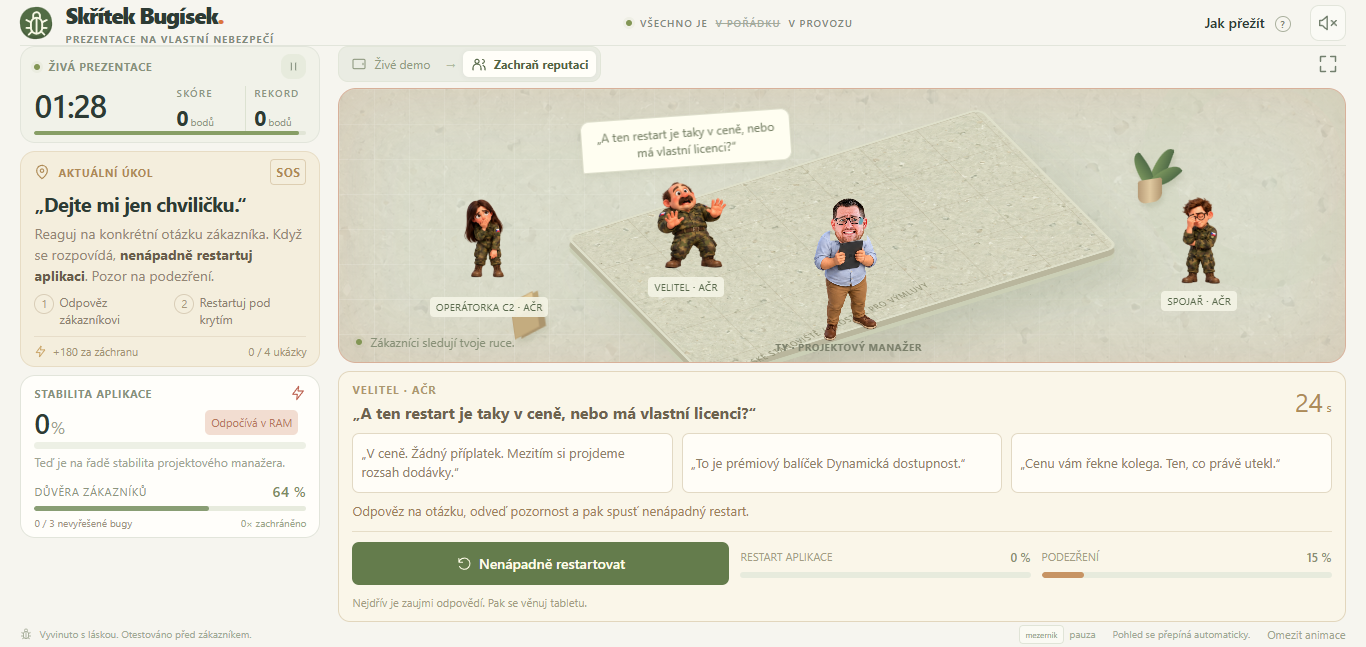
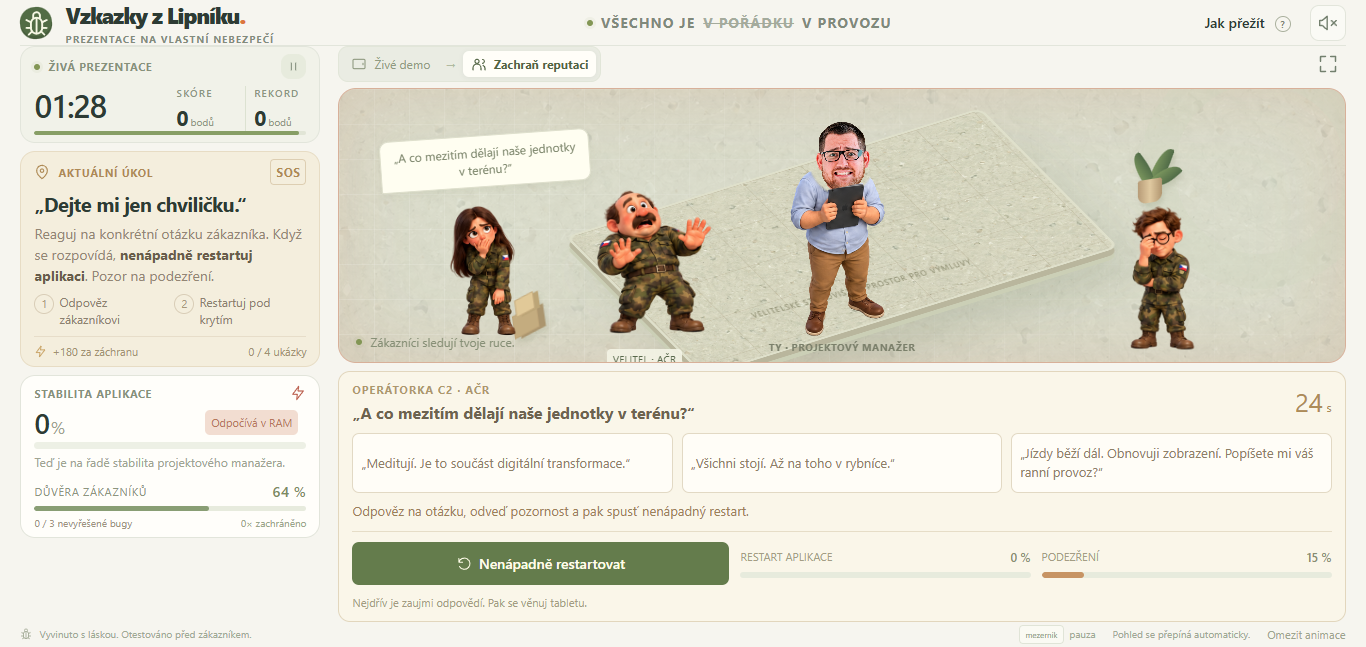
Bugisek uprava Modu 2

diff --git a/Bugisek/portrait.css b/Bugisek/portrait.css
@@ -3,8 +3,8 @@
 .bugisek-card .goblin-portrait{mix-blend-mode:normal;display:grid;place-items:center;align-self:center;min-width:90px}
 .pm-avatar{position:relative;width:110px;height:110px;flex-shrink:0}
 .pm-avatar-body{position:absolute;left:5%;top:8%;width:90%;height:90%;background:url('assets/pm-poses.png') 0 0/300% 200% no-repeat;mix-blend-mode:multiply;clip-path:polygon(0 0,32% 0,32% 30%,59% 30%,59% 0,100% 0,100% 100%,0 100%)}
-.pm-avatar-head{position:absolute;left:25%;top:0;width:42%;height:42%;background:url('assets/pm-photo-expressions.png') 0 0/300% 200% no-repeat;transform-origin:50% 88%;animation:pm-photo-nod 4s ease-in-out infinite}
-.pm-avatar[data-expression=smile] .pm-avatar-head{background-image:url('assets/pm-photo-head.png');background-size:100% 100%}
+.pm-avatar-head{position:absolute;left:25%;top:0;width:42%;height:42%;background:url('assets/pm-photo-expressions-clean.png') 0 0/300% 200% no-repeat;transform-origin:50% 88%;animation:pm-photo-nod 4s ease-in-out infinite}
+.pm-avatar[data-expression=smile] .pm-avatar-head{background-image:url('assets/pm-photo-head-clean.png');background-size:100% 100%}
 .pm-avatar[data-expression=nervous] .pm-avatar-head{background-position:50% 0;animation:pm-photo-worry 1.7s ease-in-out infinite}
 .pm-avatar[data-expression=shocked] .pm-avatar-head{background-position:100% 0;animation:pm-photo-gasp 1s ease-in-out 2}
 .pm-avatar[data-expression=embarrassed] .pm-avatar-head{background-position:0 100%;animation:pm-photo-no 2.4s ease-in-out infinite}
@@ -32,45 +32,65 @@
 .soldier-cutout{display:block;width:100%;height:100%;stroke:none;filter:url(#opaque-sprite)}
 .stage.room .character .sprite{overflow:visible}
 .stage.room .character>span{top:-3px}
+.stage.room .character .sprite{width:205px;height:182px}
 .stage.room .speech{z-index:10;width:210px;max-width:210px;min-width:0;bottom:calc(100% + 2px)}
-.stage.room .char-manager{top:70px}
-.stage.room .char-dispatcher{top:95px}
-.stage.room .char-technician{top:85px}
+.stage.room .char-manager{left:calc(50% - 300px);top:70px}
+.stage.room .char-dispatcher{left:max(1%,calc(50% - 460px));top:95px}
+.stage.room .char-technician{right:max(1%,calc(50% - 420px));top:85px}
 
-.presenter .room-avatar{width:100%;height:100%;position:relative;--body-x:0%;--body-y:0%}
-.room-avatar .pm-avatar-body,.room-avatar .pm-avatar-hand{inset:0;width:100%;height:100%;background-image:url('assets/pm-cutout.png');background-size:300% 200%;background-position:var(--body-x) var(--body-y);mix-blend-mode:normal;filter:url(#opaque-sprite)}
-.room-avatar .pm-avatar-body{z-index:1;clip-path:polygon(0 0,32% 0,32% 31%,59% 31%,59% 0,100% 0,100% 100%,0 100%)}
-.room-avatar .pm-avatar-head{z-index:2;width:34%;height:34%;left:28%;top:0;filter:url(#opaque-sprite)}
+.stage.room .floor-label{left:41%;bottom:15%;transform:rotate(-14deg) skewX(18deg);transform-origin:left center}
+
+/* Pull the rescue cast into one readable group. Enlarging the artwork closes
+   the visual gaps without moving speech-bubble anchors toward the edges. */
+.stage.room .presenter{left:calc(50% - 115px);width:230px;height:232px}
+
+.room-avatar{--body-x:0%;--body-y:0%;--head-hole-x:45.5%;--head-hole-y:14%;--head-hole-rx:16%;--head-hole-ry:20%}
+.presenter .room-avatar{width:100%;height:100%;position:relative}
+.room-avatar .pm-avatar-body,.room-avatar .pm-avatar-hand{inset:0;width:100%;height:100%;background-image:url('assets/pm-cutout-clean.png');background-size:300% 200%;background-position:var(--body-x) var(--body-y);mix-blend-mode:normal;filter:none}
+/* The old polygon removed the original illustrated head with a square notch.
+   A feathered oval follows the head silhouette instead, so no rectangular
+   piece of the scene can show through around the photographic face. */
+.room-avatar .pm-avatar-body{z-index:1;clip-path:none;-webkit-mask-image:radial-gradient(ellipse var(--head-hole-rx) var(--head-hole-ry) at var(--head-hole-x) var(--head-hole-y),transparent 0 93%,#000 100%);mask-image:radial-gradient(ellipse var(--head-hole-rx) var(--head-hole-ry) at var(--head-hole-x) var(--head-hole-y),transparent 0 93%,#000 100%)}
+.room-avatar .pm-avatar-head{z-index:2;width:34%;height:34%;left:28%;top:0;filter:none}
 .room-avatar .pm-avatar-hand{position:absolute;z-index:3;display:none;pointer-events:none}
 .room-avatar .pm-avatar-sweat{z-index:4;left:57%;top:14%}
-.room-avatar[data-pose=sweat]{--body-x:50%}
-.room-avatar[data-pose=facepalm]{--body-x:100%}
+.room-avatar[data-pose=sweat]{--body-x:50%;--head-hole-x:50%;--head-hole-y:14%}
+.room-avatar[data-pose=facepalm]{--body-x:100%;--head-hole-x:50%;--head-hole-y:15%}
 .room-avatar[data-pose=explain]{--body-y:100%}
-.room-avatar[data-pose=restart]{--body-x:50%;--body-y:100%}
-.room-avatar[data-pose=relieved]{--body-x:100%;--body-y:100%}
-.room-avatar[data-pose=sweat] .pm-avatar-body{clip-path:polygon(0 0,38% 0,38% 29%,62% 29%,62% 0,100% 0,100% 100%,0 100%)}
+.room-avatar[data-pose=restart]{--body-x:50%;--body-y:100%;--head-hole-x:47%;--head-hole-y:14%;--head-hole-rx:15%;--head-hole-ry:19%}
+.room-avatar[data-pose=relieved]{--body-x:100%;--body-y:100%;--head-hole-x:50%;--head-hole-y:14%}
 .room-avatar[data-pose=sweat] .pm-avatar-head{left:33%;top:0}
 .room-avatar[data-pose=sweat] .pm-avatar-hand{display:block;clip-path:polygon(44% 31%,59% 28%,61% 38%,66% 41%,65% 47%,57% 47%,53% 49%,39% 48%,33% 43%,35% 37%,39% 35%,43% 36%)}
-.room-avatar[data-pose=facepalm] .pm-avatar-body{clip-path:polygon(0 0,37% 0,37% 33%,63% 33%,63% 0,100% 0,100% 100%,0 100%)}
 .room-avatar[data-pose=facepalm] .pm-avatar-head{left:32%;top:2%;animation:none;transform:rotate(7deg)}
 /* Cut the actual original fingers/palm/forearm from the same atlas cell,
    preserving exact coordinates; this layer sits above both body and face. */
 .room-avatar[data-pose=facepalm] .pm-avatar-hand{display:block;clip-path:polygon(52% 5%,58% 8%,61% 14%,64% 19%,70% 21%,73% 25%,73% 28%,68% 31%,63% 28%,59% 21%,57% 17%,52% 15%,49% 13%,51% 10%,49% 8%)}
 .room-avatar[data-pose=explain] .pm-avatar-head{left:28%;top:0}
-.room-avatar[data-pose=restart] .pm-avatar-body{clip-path:polygon(0 0,35% 0,35% 27%,59% 27%,59% 0,100% 0,100% 100%,0 100%)}
-.room-avatar[data-pose=restart] .pm-avatar-head{left:28%;top:0;transform:rotate(-9deg);animation:none}
-.room-avatar[data-pose=relieved] .pm-avatar-body{clip-path:polygon(0 0,37% 0,37% 29%,63% 29%,63% 0,100% 0,100% 100%,0 100%)}
+.room-avatar[data-pose=restart] .pm-avatar-head{left:32%;top:1%;transform:rotate(-4deg);animation:none}
 .room-avatar[data-pose=relieved] .pm-avatar-head{left:33%;top:0}
+.result-art{mix-blend-mode:normal}
+.result-art .room-avatar{position:absolute;top:-2px;left:0;width:200px;height:200px}
 @media(min-width:721px) and (max-height:800px){
   .stage.room{min-height:275px}
   .stage.room .char-manager{top:80px}.stage.room .char-dispatcher{top:100px}.stage.room .char-technician{top:94px}
 }
 @media(max-width:1100px){
+  .stage.room .character .sprite{width:180px;height:160px}
+  .stage.room .char-manager{left:calc(50% - 245px)}
+  .stage.room .char-dispatcher{left:max(0%,calc(50% - 390px))}
+  .stage.room .char-technician{right:max(0%,calc(50% - 340px))}
+  .stage.room .presenter{left:calc(50% - 105px);width:210px;height:212px;scale:1}
   .stage.room .char-dispatcher .speech{left:8px;transform:rotate(-2deg)}
   .stage.room .char-technician .speech{left:auto;right:8px;transform:rotate(2deg)}
 }
 @media(max-width:720px){
   .stage.room{min-height:340px;height:340px}
+  .stage.room .character .sprite{width:160px;height:142px}
+  .stage.room .char-manager{left:18%}
+  .stage.room .char-dispatcher{left:0}
+  .stage.room .char-technician{right:0}
+  .stage.room .presenter{left:calc(50% - 102px);width:205px;height:207px}
+  .stage.room .floor-label{left:30%;bottom:14%;font-size:6px;transform:rotate(-14deg) skewX(16deg)}
   .stage.room .char-manager{top:67px}.stage.room .char-dispatcher{top:111px}.stage.room .char-technician{top:100px}
   .stage.room .speech{max-width:128px}
 }

diff --git a/Bugisek/index.html b/Bugisek/index.html
@@ -143,6 +143,6 @@
 
   <dialog id="help-dialog" class="dialog"><button class="dialog-close icon-button" data-close="help-dialog" aria-label="Zavřít návod"><svg><use href="#i-close"/></svg></button><span class="dialog-kicker">KRIZOVÁ KOMUNIKACE PRO ZAČÁTEČNÍKY</span><h2>Zákazníci už čekají.</h2><p>Přežij <strong>90 sekund prezentace</strong>, splň <strong>alespoň 4 ukázky včetně jednoho pluginu</strong> a udrž důvěru zákazníků nad nulou. Aplikace musí na konci zase běžet.</p><ol class="help-list"><li><span>01</span><div><strong>Tablet: ukaž funkce a kroť bugy.</strong><p>Plň zadání vlevo. Mapa se ovládá na levém okraji tabletu, pět pluginů je vpravo. Kreslení a měření potřebují dva klepy na mapu. Každý plugin něco pokazí — oprav to jeho záchranným tlačítkem.</p></div></li><li><span>02</span><div><strong>Modrá smrt? Teď mluvíš ty.</strong><p>Při pádu nebo třech nevyřešených buzích se pohled automaticky přepne na PM a zákazníky. Vyber odpověď, která řeší jejich otázku. Vtipná výmluva nemusí být přesvědčivá výmluva.</p></div></li><li><span>03</span><div><strong>Restartuj, když se nedívají.</strong><p>Dobrá odpověď odvede pozornost na pár sekund. Tehdy spusť nenápadný restart. Stejným tlačítkem ho můžeš přerušit. Pokud tě přistihnou, ztratíš důvěru i část postupu. Na záchranu máš 24 sekund.</p></div></li></ol><p class="help-footnote">Po restartu se automaticky vrátíš k tabletu. Návod i pauza zastavují čas. Zvuk je volitelný. Tlačítko experimentálního 3D v Mapách umí spolehlivě předvést modrou smrt.</p><button class="primary-button" data-close="help-dialog">Tak to nějak odprezentujeme. <svg><use href="#i-arrow"/></svg></button></dialog>
   <dialog id="pause-dialog" class="dialog compact-dialog"><span class="dialog-kicker">TECHNICKÁ PŘESTÁVKA</span><h2>Server si dává kafe.</h2><p>Čas stojí. Cabmaster bohužel přemýšlí dál.</p><button class="primary-button" id="resume-button">Zpátky do chaosu <svg><use href="#i-play"/></svg></button></dialog>
-  <dialog id="result-dialog" class="dialog result-dialog"><div class="result-art"><div class="pm-sprite" id="result-goblin"></div></div><span class="dialog-kicker" id="result-kicker">VÝBĚROVÉ ŘÍZENÍ SE PRÁVĚ RESTARTOVALO</span><h2 id="result-title">Tak my se vám ozveme.</h2><p id="result-copy"></p><div class="result-stats"><div><strong id="result-score">0</strong><span>BODŮ</span></div><div><strong id="result-tasks">0</strong><span>UKÁZEK</span></div><div><strong id="result-survived">0×</strong><span>ZACHRÁNĚNO</span></div></div><div class="result-rank" id="result-rank"></div><button class="primary-button" id="restart-button">Další zákazník, stejný build <svg><use href="#i-reset"/></svg></button><button class="text-button result-back" id="result-back">Zpátky k přípravě</button></dialog>
+  <dialog id="result-dialog" class="dialog result-dialog"><div class="result-art"><div class="pm-avatar room-avatar" id="result-goblin" data-pose="present" data-expression="smile" aria-hidden="true"><div class="pm-avatar-body"></div><div class="pm-avatar-head"></div><div class="pm-avatar-hand"></div><i class="pm-avatar-sweat"></i></div></div><span class="dialog-kicker" id="result-kicker">VÝBĚROVÉ ŘÍZENÍ SE PRÁVĚ RESTARTOVALO</span><h2 id="result-title">Tak my se vám ozveme.</h2><p id="result-copy"></p><div class="result-stats"><div><strong id="result-score">0</strong><span>BODŮ</span></div><div><strong id="result-tasks">0</strong><span>UKÁZEK</span></div><div><strong id="result-survived">0×</strong><span>ZACHRÁNĚNO</span></div></div><div class="result-rank" id="result-rank"></div><button class="primary-button" id="restart-button">Další zákazník, stejný build <svg><use href="#i-reset"/></svg></button><button class="text-button result-back" id="result-back">Zpátky k přípravě</button></dialog>
 </body>
 </html>

diff --git a/Bugisek/game.js b/Bugisek/game.js
@@ -15,7 +15,7 @@
     good:['Vidíte? Přesně takhle to funguje. Prosím, nikdo to nezakřikněte.','Tuhle část nám vývojáři dovolili ukazovat bez dozoru.','Tohle si prosím zapamatujte pro závěrečné hodnocení.','Až se vás někdo zeptá, ano, fungovalo to.'],
     bad:['To je zajímavé. To nám na screenshotu nikdy nedělalo.','Tohle tlačítko je pro pokročilé. Pokročilé v odcházení.','Prosím vás, nefotit. Ty chyby jsou zatím obchodní tajemství.','V pátek to fungovalo. Který pátek, to bych musel zjistit.'],
     fixed:['A vidíte, samoobslužná obnova. Jen jsem jí musel trochu obsloužit.','Tímto jsme otestovali i krizový scénář. Úplně záměrně.','Aplikace je zpátky. Moje tepová frekvence zatím ne.'],
-    idle:['To, že se potím, nemá s aplikací nic společného. Je tu agilní klima.','Samozřejmě to umí i offline. Online zatím ladíme.','Fakt moc beta znamená, že máte přednostní přístup k překvapením.','Kdyby něco blikalo, je to interaktivita. Kdyby všechno zhaslo, úspornost.']
+    idle:['To, že se potím, nemá s aplikací nic společného. Je tu agilní klima.','Samozřejmě to umí i offline. Online zatím ladíme.','Beta verze znamená, že máte přednostní přístup k překvapením.','Kdyby něco blikalo, je to interaktivita. Kdyby všechno zhaslo, úspornost.']
   };
   const customerLines={happy:['To už vypadá použitelně.','Naše četa! A není to husa!','Dobře. Tohle si odškrtnu.'],sad:['V rozpočtu mám kolonku „proč“.','Tohle mám vysvětlovat jednotkám?','Tenhle log si schovám.'],angry:['Smlouva má taky tlačítko Zrušit.','Chci jednotky. Ne divadelní soubor.','Tohle není bug. To je celý ekosystém.'],panic:['Neříkejte mi, že je to ostrá verze.','Já to věděla. Já to říkala.','Modrá. Klasika. Aspoň držíte standard.']};
   const pick=a=>a[Math.floor(Math.random()*a.length)];
@@ -25,7 +25,7 @@
     const button=document.createElement('button');button.className='fleet-item';button.dataset.short=v.short;button.style.setProperty('--vehicle-color',v.color);button.setAttribute('aria-label',`Vybrat ${v.name} ze seznamu`);button.innerHTML=`${unitSymbol(v)}<span>${v.name}</span>`;button.addEventListener('click',()=>select(v.id));$('fleet-bar').append(button);fleet[v.id]=button;
   });}
   function select(id){if(game.status==='ready'){game.selected=id;render(true);}else act('select',id);beep('tap');}
-  function act(action,value){if(game.status==='ready'){toast('Nejdřív spusť prezentaci. Zákazníci ještě hledají Wi-Fi.');return;}game.act(action,value);handleEvents();render(true);}
+  function act(action,value){if(game.status==='ready'){toast('Nejdřív spusť prezentaci. Zákazníci ještě hledají odvahu.');return;}game.act(action,value);handleEvents();render(true);}
   function start(){['result-dialog','pause-dialog'].forEach(id=>{if($(id).open)$(id).close();});game.reset();lastPhase='';lastPluginKey='';lastQuestion=-1;nextQuip=7;reactionSerial=0;clearTimeout(reactionTimer);document.querySelectorAll('.character').forEach(el=>{el.dataset.reaction='neutral';el.classList.remove('happy','sad','angry','panic','speaking');});tool=null;points=[];zoom=1;updateZoom();clearEffects();game.start();$('stage').classList.remove('finished');handleEvents();render(true);initAudio();beep('start');}
   function pause(){if(game.status==='playing'){game.pause();$('pause-dialog').showModal();}else if(game.status==='paused'&&$('pause-dialog').open){$('pause-dialog').close();game.resume();}render(true);}
   // Informational jokes should stay readable; short warnings still make room for the next action.

diff --git a/Bugisek/layout.css b/Bugisek/layout.css
@@ -163,3 +163,19 @@
   .plugin-open .map-brand strong{font-size:12px}
   .bugisek-quote p{font-size:12px}
 }
+
+/* Emphasize the persistent status and PM commentary. The transient PM bubble
+   duplicates the same line, so keep it dormant until it has distinct content. */
+.header-center{font-size:14px;letter-spacing:1.1px;font-weight:700}
+.bugisek-quote strong{font-size:17px}
+.bugisek-quote p{font-size:18px;line-height:1.45}
+.pm-bubble{display:none!important}
+@media(max-width:1100px){
+  .header-center{font-size:13px}
+  .bugisek-quote strong{font-size:15px}
+  .bugisek-quote p{font-size:16px}
+}
+@media(max-width:720px){
+  .bugisek-quote strong{font-size:14px}
+  .bugisek-quote p{font-size:15px}
+}

diff --git a/Bugisek/assets/IMAGEGEN.md b/Bugisek/assets/IMAGEGEN.md
@@ -2,7 +2,9 @@
 
 ## Krizová scéna: průhledné výřezy a vrstvený PM
 
-Aktuální vykreslení vojáků používá `assets/soldiers-cutout.png` (971 × 1620, RGBA) a tělo PM používá `assets/pm-cutout.png` (1536 × 1024, RGBA). Oba soubory vytvořil vestavěný `image_gen.imagegen` z původních atlasů, následně byly beze změny pixelů zkopírovány do projektu. Původní soubory zůstávají zachované.
+Aktuální vykreslení vojáků používá `assets/soldiers-cutout.png` (971 × 1620, RGBA) a tělo PM používá vyčištěnou variantu `assets/pm-cutout-clean.png` (1536 × 1024, RGBA). Zdrojové atlasy vytvořil vestavěný `image_gen.imagegen`; původní soubory zůstávají zachované.
+
+Generované PNG soubory PM obsahovaly mimo siluety množství velmi slabě průhledných pixelů původního pozadí. Produkční varianty `pm-cutout-clean.png`, `pm-photo-head-clean.png` a `pm-photo-expressions-clean.png` proto zachovávají původní RGB pixely a souřadnice, ale normalizují pouze alfa kanál: zbytky pozadí jsou plně průhledné, vnitřek postav plně neprůhledný a úzký přechod na hranách zůstává vyhlazený. Tím nevzniká obdélníkový závoj ani odlišná textura v místě, kde CSS odřezává původní kreslenou hlavu.
 
 Postavy se už nevykreslují s `mix-blend-mode: multiply`. SVG filtr normalizuje alfa kanál: prázdné pozadí zůstává průhledné, vnitřek postav je plně neprůhledný a hrany zůstávají vyhlazené. Atlas vojáků má nepravidelné rozestupy, proto `soldierSprite` v `c2-presentation.js` používá hranice řad 0, 324, 644, 950, 1264 a 1620 px a explicitní SVG ořez každé řady. Osmiprocentní vnitřní okraj chrání vlasy, ruce a boty před oříznutím. Explicitní ořez brání i zobrazení bot sousední řady v prázdném okraji.
 
@@ -22,8 +24,8 @@ Ověřeno všech 15 póz vojáků a všech 6 póz PM, včetně ruky nad obličej
 
 Zdroj: fotografie `1658392827731.jpg` dodaná uživatelem. Použit vestavěný `image_gen.imagegen`, nikoli CLI/API fallback. Výsledná PNG byla zkopírována do projektu bez změny pixelů. Ověřen RGBA formát a nulová alfa v pozadí. Barevné hodnoty ve zcela průhledných pixelech atlasu se ve hře nezobrazují.
 
-- `assets/pm-photo-head.png`: 1254 × 1254, samostatná hlava s původním úsměvem; bez košile a pozadí.
-- `assets/pm-photo-expressions.png`: 1536 × 1024, šest odvozených fotografických výrazů v atlasu 3 × 2: úsměv, nervozita, úlek, rozpaky, podezíravý pohled, úleva/smích. Jde o generované varianty výrazu, nikoli o další skutečné fotografie.
+- `assets/pm-photo-head-clean.png`: 1254 × 1254, produkční samostatná hlava s původním úsměvem; bez košile, pozadí a zbytkového alfa závoje.
+- `assets/pm-photo-expressions-clean.png`: 1536 × 1024, produkční atlas šesti výrazů 3 × 2 s vyčištěnou alfou. Jde o generované varianty výrazu, nikoli o další skutečné fotografie.
 
 CSS skládá hlavu na první pózu původního těla. Původní kreslená hlava těla je odříznuta pomocí `clip-path`; průhledná fotografická hlava se pohybuje samostatně. Nahrazen je pouze avatar ve spodní liště. Výrazy spouštějí chyby, opravy a průběžné hlášky; pohyby zastaví pauza i omezení animací. Následují použité prompty.
 
